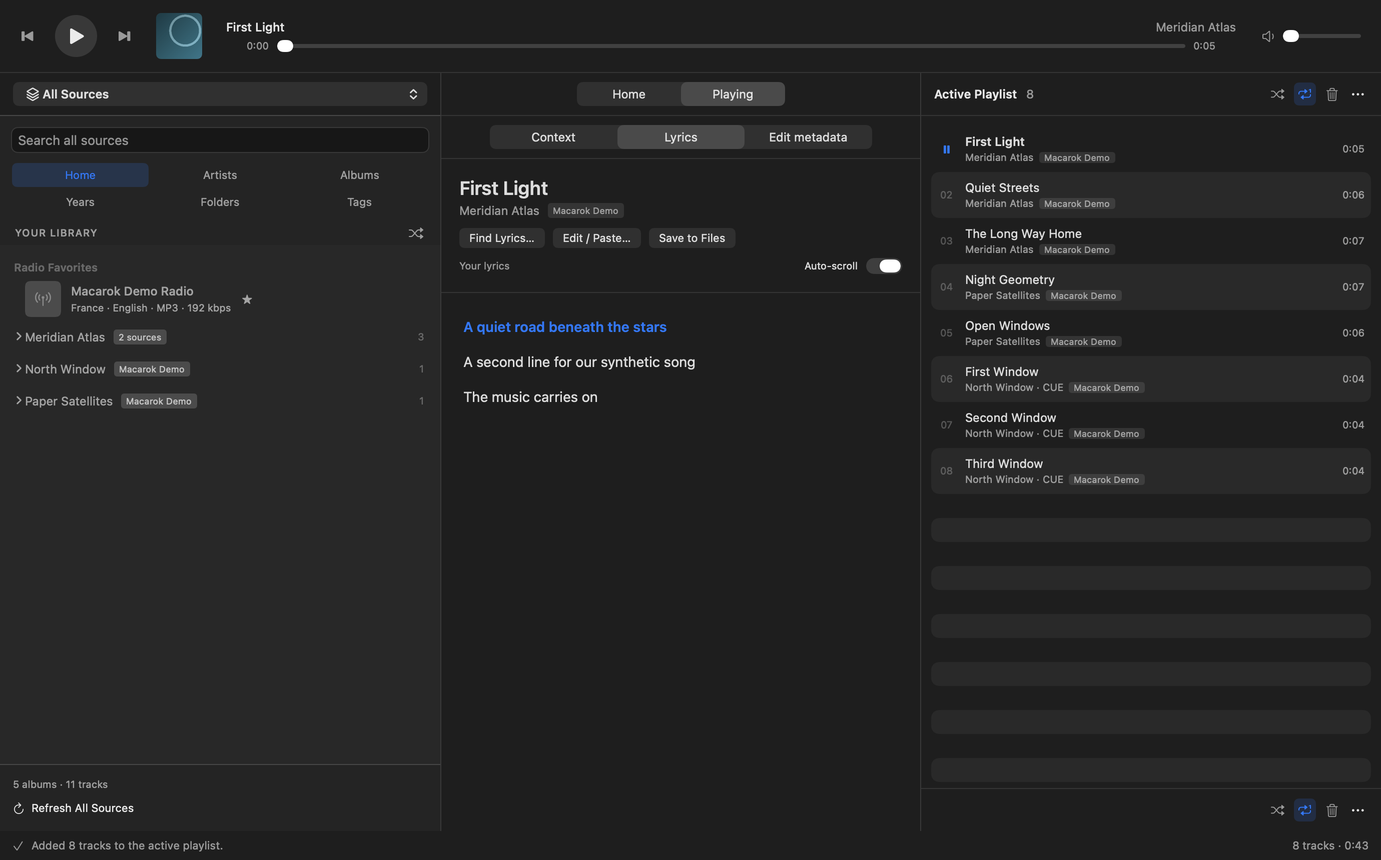
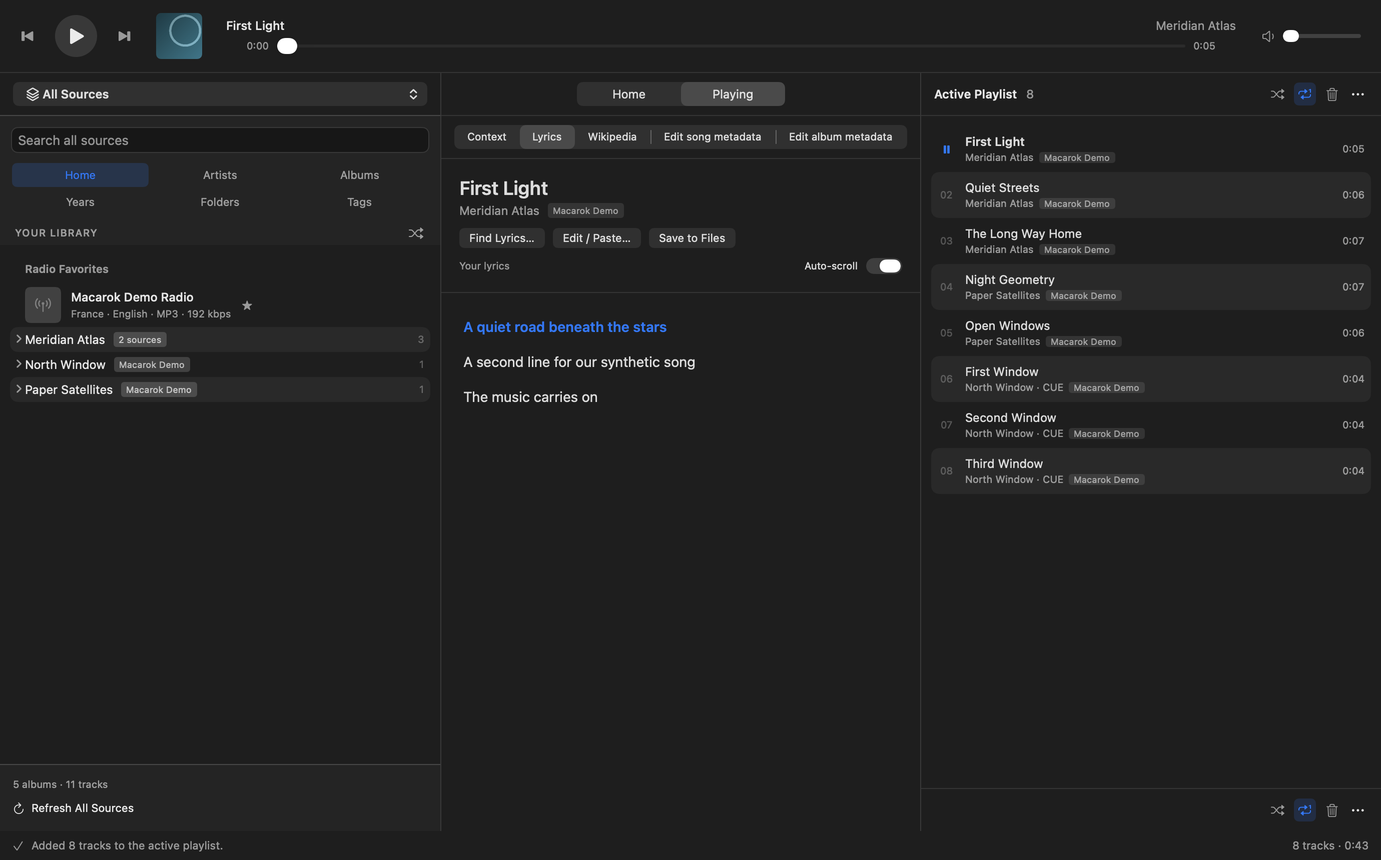
Document playback performance, podcast storage and native interface changes

Changed region(s): [[0.0, 0.3081, 0.187, 0.493], [0.3428, 0.1233, 0.6543, 0.1849], [0.187, 0.0308, 0.2181, 0.0616]]

diff --git a/docs/TESTING.md b/docs/TESTING.md
@@ -16,6 +16,10 @@ The suite also exercises actual VLCKit playback of synthetic MP3, FLAC, Vorbis, 
 
 `PlaybackSeekInteractionTests` covers both native slider callback orders, interrupted drags, and stale releases after a queue transition. Podcast seek checks use synthetic variable-bitrate MP3 audio over loopback HTTP and wait for playback to advance from the requested timestamp. RSS duration hints are used for initial presentation, not byte-buffer sizing or resume bounds; VLC's decoded duration replaces them when available. A server that refuses byte ranges must disable seeking, discard unsupported pending resume points, and keep normal playback and pause/resume working.
 
+`PodcastDownloadTests` uses injected HTTP fixtures to verify explicit-only downloads, persisted files and manifests, source-specific identities, failures/cancellation, owned staging cleanup, retention, invalid paths/symlinks, external deletion, and duplicate-transfer protection. `PlaybackTimelineBufferTests` checks range gaps/clamps/unknown lengths and actual native gray/white/blue pixels in both appearances, including complete local-file coverage through the download controller. Its optional snapshots use `MACAROK_SNAPSHOT_DIRECTORY`.
+
+`WikipediaPaneTests` checks metadata query encoding, artist/album targets, safe navigation, visibility cancellation, stale responses, and pinned-editor context. These tests use an offline navigation state and do not request Wikipedia pages.
+
 `QueuePreferenceTests`, `QueueBehaviorTests`, and `ClearPlaylistTests` cover legacy preference migration, empty-playlist double-click playback, append/after-current choices, shuffled batch append, exact duplicate entry identities, ordered Undo / Redo with updated metadata, active/paused/stopped clear behavior, persistence, and held-arrow seek targets. `SourcePickerTests` checks the real native popup control, source icons, checked selection, and unchanged queue when changing browsing scope.
 
 `RadioAndDiscoveryTests`, `LiveRadioStreamTests`, and `RadioSnapshotTests` cover station persistence, radio/music partitioning, bounded directory requests, M3U/PLS resolution, HLS rejection, ICY framing and metadata timing, podcast directory responses, throttling, and cancellation. Network fixtures replace public directory responses. `LastFMTests` and `ScrobblingControllerTests` use injected HTTP, credentials, time, and browser handling to check signed requests, authorization, listening thresholds, source exclusions, durable ordered delivery, retries, and account changes without authorizing or submitting to a real Last.fm account.
@@ -26,11 +30,15 @@ The menu-tracking regression plays a silent WAV through real VLC while pumping o
 
 `CenterNavigationTests` covers retained Home filters and Context tabs, playback-following behavior, pinned metadata/artwork targets, late editor completion, and merging drafts without replacing newer artwork or history. `ScrobblingSettingsAlignmentTests` checks the real credential text fields in the grouped macOS Form in both appearances, using injected fake credentials without Keychain or network access.
 
+`AlbumMetadataEditorTests` checks complete source-specific album selection under search, duplicate albums in other sources, preserved queue identities and concurrent track corrections, ordinary FLAC tag/audio preservation, external CUE rescans, embedded CUE batching, and partial file-write errors. `AlbumMetadataRenderingTests` renders the real central album editor at 370 and 590 points in Light/Dark, verifying its five shared fields, pinned draft after a queue change, and centered native mode selectors with readable compact labels and full tooltips.
+
+`NativeListBackgroundTests` compares pixels from a real SwiftUI List in both appearances: actual rows must alternate while the complete empty viewport remains uniform after 2 → 4 → 1 → 0 entries and resizing. It also checks pass-through hit testing, native selection/delegate preservation, and mask geometry during native outline expansion/collapse. `MenuBarControllerTests` uses an injected status-item host to check opt-in preference migration, enable/disable lifecycle, current action state, callbacks, and model updates without changing the user's system menu bar.
+
 Progressive catalog tests gate API responses and controller batches to prove that tracks are persisted, searchable, and queueable before completion. They cover cancellation, later request failures, stale refresh generations, source changes, and success-only reconciliation. Folder tests include a synthetic 30,000-track, 7,000-folder catalog and cancellation; the folder tree is built off the main thread.
 
 `LibrarySnapshotTests` covers the prepared navigation groups, deterministic sorting, cancellation, and a synthetic 50,000-track/5,000-album/100-year catalog. `LibraryResponsivenessTests` deliberately holds background loads while exercising all navigation buttons, a MainActor heartbeat, and queue persistence; it also checks coalescing and stale source/error rejection. The comparator tests cover missing disc/track numbers and strict ordering contracts.
 
-`LibrarySearchPresentationTests` verifies grouped results in each library view, query preservation across tabs, clearing the query, source isolation, and complete album selection from a partial search result. Buffer regressions drain multi-megabyte responses through repeated prefix compaction, then exercise seeking and closing without corrupting bytes or trapping on nonzero `Data` indices.
+`LibrarySearchPresentationTests` verifies grouped results in each library view, query preservation across tabs, clearing the query, source isolation, and complete album selection from a partial search result. Buffer regressions drain multi-megabyte responses through bounded retained-chunk eviction, then exercise seeking and closing without corrupting bytes or trapping on nonzero `Data` indices. Transport tests also exercise playback/catalog isolation, reader wakeups, TLS trust parity, and download progress/cancellation.
 
 To exercise the optional real fingerprint helper as well:
 
@@ -66,6 +74,14 @@ MACAROK_SNAPSHOT_DIRECTORY="$PWD/.build/native-snapshots" swift test --filter Na
 
 This renders Home and its three focused filters, All Sources with duplicate names, narrow/wide layouts, artist albums, synchronized/empty Lyrics, a CUE album, track tags, Settings, the metadata editor, source catalog, podcast discovery, Internet Radio library, and minimum-width playlist controls in all repeat states. Inline metadata renders cover 370- and 590-point panels and a queue change while a draft remains pinned. Header geometry checks exercise the real native segmented controls in both appearances, with both navigation rows centered at a stable height. `AlbumTileGeometryTests` measures mixed title lengths and square/portrait/landscape artwork before and after loading. These checks do not capture the screen or verify physical keyboard, file-picker, or media-key interaction.
 
+Generate the additional album-editor previews independently:
+
+```sh
+MACAROK_SNAPSHOT_DIRECTORY="$PWD/.build/native-snapshots" swift test --filter AlbumMetadataRenderingTests
+```
+
+The output contains `album-metadata-light.png`, `album-metadata-dark.png`, and corresponding `album-metadata-narrow-` variants. The render uses an isolated two-track index, advances the current queue entry after editing the draft, and starts neither playback nor a source connection. The native-list pixel checks run with `swift test --filter NativeListBackgroundTests`; they do not need the demo collection. Setting the same snapshot variable additionally writes the initial two-row views as `list-rows-light.png` and `list-rows-dark.png` before the add/remove/resize checks.
+
 ## Run without using the regular library database
 
 ```sh
@@ -85,9 +101,15 @@ Choose All Sources and compare playlist rows with single-source browsing. Each e
 
 Use the centered Home / Playing selector and its second header row in both appearances and at narrow/wide widths. Both rows must retain the same vertical positions through populated, empty, loading, lyrics, and editing states. Home → All shows every section; Recently added, Recently played, and Most played hide the other sections. Switching to Playing and back should retain the chosen Home filter.
 
-In Playing → Context, choose Tags and advance to another queue entry. Its tags should update while Context and Tags remain selected. Repeat while Lyrics is selected. Open Edit metadata, type a draft, and advance the queue: the editor must retain its original title, source, and draft while the playback indicator shows the new entry. Return Home and back to Playing; the draft should still be present. Save or Cancel should return to Context and follow the current queue entry without resetting Overview / Tags. Use generated files when saving.
+In Playing → Context, choose Tags and advance to another queue entry. Its tags should update while Context and Tags remain selected. Repeat while Lyrics is selected. Open Edit song metadata, type a draft, and advance the queue: the editor must retain its original title, source, and draft while the playback indicator shows the new entry. Return Home and back to Playing; the draft should still be present. Save or Cancel should return to Context and follow the current queue entry without resetting Overview / Tags. Use generated files when saving.
 
 Open Change Artwork while editing, then advance playback through media controls or automatic completion. The artwork chooser and underlying editor should retain their original target. Closing the artwork chooser must preserve any metadata draft; leaving the metadata editor should resume following playback. Check that the Last.fm API key field aligns its text to the left in Settings.
+
+Open Edit album metadata from Playing or an album's context menu while search matches only one of its tracks. Confirm that all available tracks from that source's album are included, and that Album, Album artist, Artist (all tracks), Year, and Genre are the only editable fields. Change Album and Year, advance playback, and switch Home/Playing; the original album and draft must remain pinned. Save against generated ordinary files and CUE albums, rescan with protection disabled, and verify unchanged titles, per-track artists, numbering, audio, and CUE segment boundaries. An identically named album in another source must remain unchanged. Use the separate artwork action to verify that closing its chooser preserves the album draft.
+
+Compare library and playlist alternation in Light/Dark with only a few entries, then add/remove entries, resize, scroll, and expand artists, albums, and folders. Actual rows should alternate; the area after the last real row must have no placeholder stripes. Selection, context menus, drag/reorder, and native keyboard navigation must continue working.
+
+In Settings → General, verify that Show Macarok in the menu bar starts disabled. Enable it, inspect the English title/artist and playback actions, close the main window, and use Show Macarok to reopen it. Advance the queue while the status menu is open; actions should control the current entry. Check radio Pause/Reconnect, disable the option during playback, and restart to confirm the preference is retained. Automated host tests cover state and callbacks; this manual check verifies actual macOS status-item presentation.
 
 Clear Playlist should keep only the exact current entry while playing, opening, or buffering, with uninterrupted position. Pause, clear, and confirm the entire queue becomes empty. Repeat for a stopped or restored playlist. Command-Z should undo Clear without autoplay or seeking; Shift-Command-Z should redo it. Add after Clear and confirm Undo removes the new addition before undoing Clear. Repeat with removal, move, shuffle, duplicate tracks, and updated metadata. Editing text must retain its own undo history.
 
@@ -113,9 +135,13 @@ The [loopback demo server](DEMO-SERVER.md) provides an isolated OpenSubsonic lib
 
 ## Source discovery and optional services
 
-Use [source setup](SOURCES.md) to inspect each catalog choice. The Bandcamp preset should fill its endpoint and link to official account/setup pages; a live account check uses generated Subsonic credentials. Qobuz, Deezer, and Spotify cards should open official information pages without presenting a fake connection.
+Use [source setup](SOURCES.md) to inspect each catalog choice. The Bandcamp preset should fill its endpoint and link to official account/setup pages; a live account check uses generated Subsonic credentials. Add Source should contain the five working connector choices, without the former Qobuz, Deezer, and Spotify information cards.
 
 Search podcasts with Podcast Index, then Apple Podcasts. Select Use Feed and confirm subscription still requires Subscribe in the source sheet. Cancel or change provider during a request and confirm old results cannot replace the new state. Direct feed entry should work independently of either directory. Re-subscribing to a known feed should select its existing source.
+
+For podcast playback, compare gray unavailable data, white buffered/downloaded coverage, and blue cursor progress in Light/Dark. Seek beyond the retained range and confirm the white bar does not invent a downloaded prefix. Unknown lengths should have no percentage; variable-bitrate time coverage is approximate. Choose Download Episode, cancel a transfer, then retry. Confirm a completed episode plays locally after disconnecting the network, Reveal in Finder selects the file, and Settings → Playback lists its size and folder. Restart and refresh without losing completed downloads. Use Remove Download on an inactive episode and verify that its file moves to Trash. See [storage and retention](PODCASTS.md).
+
+Open Playing → Wikipedia with a known artist, switch Artist/Album, edit a query, and follow an article link. Change tracks while loading and leave the pane; obsolete navigation must not replace the current target or continue loading in the hidden pane. Keep an editor draft pinned while advancing playback and confirm Wikipedia uses that editor's target until editing finishes. Check centered loading/error/empty states and Try Again while offline, and Open in Browser for the current page. Typing in native or embedded search fields must preserve text editing, arrows, Space, and Undo. Automated Wikipedia tests remain offline; these page checks use the public website.
 
 Add an isolated radio stream URL or browse Radio Browser. Save a station to Favorites, restart, and verify Stations/Favorites and the separate All Sources Home section. Confirm radio never appears as a music album, artist ranking, or counted play. Check direct, M3U, and PLS streams; HLS must report unsupported. With an ICY fixture, verify changing broadcast titles and uninterrupted audio. Live playback must have no seek timeline or saved resume offset; pause closes the connection and resume reconnects. Disconnect the fixture and verify Reconnect is offered without an automatic retry loop.
 

diff --git a/docs/PRODUCT.md b/docs/PRODUCT.md
@@ -20,9 +20,13 @@ Home contains Recently Added, Recently Played, and Most Played. Most Played has 
 
 The three panels share a 42-point bar header and a full-width bottom divider. Library search/navigation sits below its native macOS source picker, which shows source icons and the checked selection. The title bar omits the redundant left app title and refresh button. Album artwork is square; captions reserve two title lines and one artist line. Sources can be added directly from Settings while the main window is closed; the presenting window owns connection and certificate dialogs.
 
-The central panel has two centered segmented menu rows with stable heights. Home / Playing selects the main view. Home offers All, Recently added, Recently played, and Most played, filtering the displayed sections. Playing offers Context, Lyrics, and Edit metadata; Context retains its Overview / Tags detail choice. Track changes update the central playback context without changing these menu selections or the library's browsing scope. Home keeps its selected filter while playback advances.
+The central panel has two centered segmented menu rows with stable heights. Home / Playing selects the main view. Home offers All, Recently added, Recently played, and Most played, filtering the displayed sections. Playing offers Context, Lyrics, Wikipedia, Edit song metadata, and Edit album metadata; Context retains its Overview / Tags detail choice. Track changes update the central playback context without changing these menu selections or the library's browsing scope. Home keeps its selected filter while playback advances.
 
 An active metadata or artwork editor pins its original track and draft while playback continues. Switching to Home does not discard an unfinished metadata session. Returning to Playing restores that editor; finishing it catches up with the current track. Saving a metadata draft changes only its edited fields, retaining newer artwork, listening history, and unrelated concurrent tag corrections.
+
+Library and playlist lists use the same native alternating row style. The unused viewport below the last actual row stays plain, including after adding/removing entries, resizing, scrolling, or expanding folders. A transparent view covers only that unused canvas; native row selection, keyboard navigation, drag operations, context menus, and scrollbars remain owned by AppKit.
+
+Settings → General → Menu Bar offers **Show Macarok in the menu bar**, disabled by default and remembered across launches. The system menu bar item shows the current title and artist, Play/Pause or radio Reconnect, Previous, Next, Show Macarok, and Quit Macarok. Playback controls remain available while the main window is closed. Disabling the option removes the item without changing playback or keyboard preferences.
 
 A single click inspects an item. Double-clicking a library track, album, or artist starts its first available track when the active playlist is empty. With an existing playlist, individual tracks follow the Track double-click preference: Add to Playlist, Add After Current Track, or Play Now. Double-clicking a playlist entry plays that existing entry.
 
@@ -46,6 +50,10 @@ The source catalog includes a Bandcamp preset for `https://bandcamp.com/api/subs
 
 Podcast discovery offers Podcast Index by default and an Apple Podcasts selector. Search returns publisher feeds; Use Feed fills the subscription sheet, and Subscribe retrieves the chosen RSS/Atom feed. Search has cancellation, caching, rate limits, and explicit errors. Direct feed entry remains available.
 
+Podcast streaming retains a bounded RAM buffer; durable episode files require Download Episode. Completed downloads stay until explicitly removed, and Reveal in Finder locates the source-specific file. The timeline layers gray unavailable data, white buffered/downloaded ranges, and blue playback progress. Byte-to-time coverage is approximate for variable bitrate, and unknown lengths have no percentage. See [podcast storage and cleanup](PODCASTS.md).
+
+Wikipedia context uses artist or album metadata for an English Wikipedia page or search result, with editable search and Open in Browser. Loading is limited to the visible pane, follows the central pinned/current target, and rejects obsolete navigation. The unmodified page retains its own attribution and licenses. See [Wikipedia context](WIKIPEDIA.md).
+
 Internet Radio is a persistent source with Stations and Favorites views, URL entry, and Radio Browser directory filters for name, country, language, and tags. Stations remain separate from music albums, artists, and statistics. Direct streams and bounded M3U/PLS resolution are supported; HLS is explicitly unsupported. ICY broadcast metadata is stripped from audio and displayed as live information. Live playback has no seek timeline or saved resume offset. Pause closes the live connection; resume reconnects. Disconnections expose an explicit Reconnect action, without an automatic retry loop.
 
 Support HTTP and HTTPS. Self-signed certificates require explicit acceptance, remembered for the relevant server. Certificate changes require a new decision. Apply a consistent source-specific trust policy to metadata requests, artwork, and audio delivery.
@@ -54,7 +62,7 @@ Support HTTP and HTTPS. Self-signed certificates require explicit acceptance, re
 
 Connecting a server retrieves its album list in pages of 500. Each page's albums are imported before requesting the next page. Each completed album is committed immediately to SQLite, and the first album is published before the next request. Later UI updates are coalesced to roughly 750 ms, with catalog snapshots read off the main thread. Browsing, search, and adding tracks to the queue are available while the rest of the catalog loads. This does not request a server-side file scan.
 
-SQLite retains the indexed titles, artists, albums, tags, durations, remote IDs, paths, and cover references. Startup and source switching display this cached catalog immediately; an explicit Refresh currently repeats the complete metadata traversal. Audio files are requested only for playback, through an in-memory streaming buffer. Cover images are fetched on demand and stored in the separate Artwork cache.
+SQLite retains the indexed titles, artists, albums, tags, durations, remote IDs, paths, and cover references. Startup and source switching display this cached catalog immediately; an explicit Refresh currently repeats the complete metadata traversal. OpenSubsonic audio is requested for playback through an in-memory streaming buffer. Cover images are fetched on demand and stored in the separate Artwork cache.
 
 Cancellation or a later request failure keeps both the previous cache and newly committed albums usable. Missing-track reconciliation runs only after a successful complete retrieval and updates only availability differences. An interrupted import remains marked incomplete across restarts; Refresh traverses the catalog again. Remote cover caches survive refresh while their cover IDs remain unchanged.
 
@@ -102,7 +110,7 @@ Scrobbling is disabled until the user supplies personal Last.fm API credentials 
 
 Local and OpenSubsonic music sources can be individually excluded. Podcasts and radio are always excluded. Eligible plays qualify after half a track's duration or four minutes, with a minimum known duration greater than 30 seconds; unknown durations use four minutes. Listening uses monotonic time, excludes pauses/buffering/seeks, and treats repeats as separate occurrences. Existing library history is never uploaded retroactively.
 
-Now Playing is separately configurable. Qualified plays are persisted and delivered oldest first, with retry and pending/ignored/failed counts. Disconnect disables scrobbling and clears pending submissions for the account. See [Last.fm setup and privacy](SCROBBLING.md).
+Now Playing is separately configurable. Qualified plays are persisted and delivered oldest first, with retry and pending/ignored/failed counts. Disconnect removes the saved session and stops submission while retaining that account's pending plays. Reconnecting the same account resumes them; another account cannot submit them. See [Last.fm setup and privacy](SCROBBLING.md).
 
 ## Library, metadata, and artwork
 
@@ -115,6 +123,14 @@ Use TagLib for metadata reading and writing. Build enrichment around MusicBrainz
 Preview proposed changes, preserve unknown tags, and respect personal corrections. Find artwork in embedded metadata and local folders, then through web providers such as Cover Art Archive. Allow selected artwork to be embedded in audio files and optionally saved alongside the album.
 
 Writing tags to remote originals requires a source that provides file-write access; OpenSubsonic library edits must not imply that the server's audio file was modified.
+
+### Album metadata editing
+
+**Edit song metadata** and **Edit album metadata** have separate drafts. The album editor exposes only Album, Album artist, Artist (all tracks), Year, and Genre. It resolves every available track in the original source and album, even when a search displays only a subset. An identically named album in another source is a separate target. The source/album target and unfinished draft remain pinned when playback advances or the central view changes.
+
+Only shared fields changed in the draft are applied. Unchanged per-track artists, titles, track/disc numbers, CUE timestamps, artwork, listening history, ratings, and unrelated concurrent corrections are preserved. The protection checkbox controls whether local corrections survive future scans; remote corrections remain library overlays.
+
+**Save to Files** explicitly confirms local writes. Each physical audio file is written once through the verified TagLib writer; external CUE sheets are updated once, and textual embedded CUE changes are committed together with shared audio tags. Album-artist changes preserve inherited per-track performers unless Artist (all tracks) is explicitly changed. Unknown tags, CUE directives, audio frames, and segment boundaries remain intact. A multi-file save can partially succeed; an error reports completed destinations and retains the draft. **Save to Library** changes only Macarok's index for remote sources. Artwork uses the separate Change Artwork action.
 
 ## Development conventions
 

diff --git a/docs/VERIFICATION.md b/docs/VERIFICATION.md
@@ -6,6 +6,10 @@ The completed-check records below describe their respective revisions. The curre
 
 ## Completed checks
 
+- The playback-performance, explicit podcast-download, album-editor, menu-bar, Wikipedia, and real-row styling follow-up passed the complete suite on 16 November 2026: **362 tests, zero failures** — Core 146, Metadata 17, Audio 15, App 184. The run includes synthetic HTTP/ICY playback during catalog writes, retained-buffer eviction and cancellation, sparse scans, queue checkpoints, typed snapshot patches, file-write audio preservation, downloaded episodes, native timeline pixels, album drafts, status-menu actions, Wikipedia navigation guards, and real-row/empty-viewport rendering. Log: `.build/performance-full-tests-final.log`.
+- An isolated native app with its own SQLite directory and silent synthetic podcast verified Range seeking, white buffered/downloaded coverage, explicit download completion, and Reveal in Finder selecting the actual audio file. After stopping its loopback server and restarting the app, the downloaded episode played and advanced from its parked position without the server. The real library outline and one-entry playlist were visually checked in Light and Dark: actual rows alternate, and the unused viewport has no phantom stripes. The Playing header exposed Wikipedia and both metadata editors; the album editor exposed only its five shared fields. The optional Menu Bar preference was exercised; status-menu lifecycle/actions additionally use an injected native-host regression. Validation app, Finder window, and server were closed afterward.
+- The Release app was rebuilt and passed `codesign --verify --deep --strict`; both its bundle and executable retain macOS **14.0** as the minimum. Log: `.build/performance-release-build.log`. Updated component renders are in `design/native`. The bundle uses the existing ad-hoc signing setup; the public v0.1.0 release was not replaced.
+
 - The playback, queue undo, scrobbling, radio, and podcast-discovery follow-up passed the complete suite on 15 November 2026: **255 tests, zero failures** — Core 118, Metadata 17, Audio 9, App 111. The run includes native Light/Dark component renders, all repeat modes at the minimum playlist width, interrupted imports, stale radio refreshes, live VLC playback, ICY framing, directory cancellation/rate limits, native undo routing, and injected Last.fm authorization/outbox tests. Logs: `.build/playback-final-test.log`.
 - An isolated Release app was exercised with silent synthetic files and a loopback M3U/ICY radio server. Empty-queue artist double-click started playback; arrows sought by five seconds and accepted held repeats. Native Edit → Undo restored Clear, AZERTY Command-Z and Shift-Command-Z undid/redid the queue, and text-field Undo changed only the text. Both repeat controls stayed synchronized. The window retained its central title and native controls without the old left application block.
 - The loopback radio displayed its broadcast title, closed its HTTP connection on pause, reconnected with a new request, and retained the queue entry with Reconnect after EOF. Requests contained `Icy-MetaData: 1` and no Range header. Settings showed personal Last.fm fields without making an authorization request. With the main window closed, Settings-owned Add Source subscribed to a redirected synthetic RSS feed; subscribing again kept one canonical source. All validation app instances and the loopback server were stopped afterward.
@@ -54,5 +58,5 @@ Live MusicBrainz/AcoustID results and personal OpenSubsonic servers have not bee
 - Servers that compress byte-range responses or cap an open-ended range before EOF fail explicitly; automatic stitching of such ranges is not implemented.
 - Gapless playback is optional. Crossfade, dedicated commercial-service connectors, and direct cloud-storage integration are outside this iteration. All Sources unifies presentation while retaining separate stored copies and origin references.
 - Internet radio supports direct HTTP/HTTPS streams and M3U/PLS wrappers; HLS is unsupported. Live radio has no seeking or saved resume offset and uses explicit reconnection after a disconnect. Radio remains outside music rankings and Last.fm scrobbling.
-- Qobuz, Deezer, and Spotify currently provide official information links only. Bandcamp uses its OpenSubsonic preset rather than a separate proprietary playback connector.
+- Dedicated Qobuz, Deezer, and Spotify playback connectors are unavailable. Bandcamp uses its OpenSubsonic preset rather than a separate proprietary playback connector.
 - Release DMGs currently target Apple Silicon and macOS 14 or later. The application is ad-hoc signed without Apple notarization.

diff --git a/docs/PLAYBACK-PERFORMANCE.md b/docs/PLAYBACK-PERFORMANCE.md
@@ -1,0 +1,37 @@
+# Playback during library work
+
+Playback, indexing, and presentation use separate work paths. The app retains macOS 14 as its deployment target.
+
+## HTTP audio
+
+`SourceTransport` has separate playback, download, and catalog sessions with the same source-specific certificate and redirect policy. Playback receives data chunks on a dedicated high-priority delegate queue. A bounded retained-chunk buffer provides backpressure through reader/producer wakeups, without per-byte Swift concurrency, repeated polling, or moving the remaining audio under a lock. Small seeks reuse retained bytes. Old ranges and callbacks are rejected after replacement or cancellation. ICY parsing copies audio spans and keeps metadata out of decoder input.
+
+Retained byte ranges describe reusable RAM, not a cumulative download. Evicted bytes are no longer shown as buffered. CBR/VBR files use the same decoder; timeline coverage derived from byte offsets is approximate for variable bitrate. Unknown total lengths do not invent a percentage.
+
+## VLC and the UI
+
+A shared `VLCLibrary` avoids constructing a libVLC context for every track. Each item retains its own lightweight player/delegate identity, so callbacks cannot complete a replacement item. Local files and mounted shares receive file caching as well as network caching for streams.
+
+`PlaybackTimeline` owns position, duration, seekability, and buffering publications. Equality guards suppress duplicate values. Only the compact seek control and synchronized lyric lines observe this clock. Playlist and radio panels observe playback state. Queue-entry lookup and source-kind lookup use indexes, while each metadata batch assigns the queue once and retains its UUIDs and selection.
+
+Bookmark resolution, security access, and filesystem probes run through `PlaybackPreparationWorker`. The next local item is prepared ahead of a transition. Failed prefetches are advisory: foreground playback retries after a share or file returns. Security access stays alive until source removal or application shutdown.
+
+Resume checkpoints update a small record without rewriting the full queue JSON every five seconds. Content revisions and checkpoint revisions are ordered independently, so a checkpoint delivered before its preceding queue edit cannot discard that edit. macOS Now Playing receives immediate state/seek changes and periodic clock reconciliation.
+
+## Library and images
+
+Local scans cache each audio file's mtime, size, and parsed metadata in an additive SQLite table. Unchanged files skip TagLib and embedded-art hashing; CUE sheets and sidecar images remain independently discoverable. Interrupted scans keep prior cache entries and do not reconcile absent tracks. Progress is coalesced to approximately ten updates per second. SQLite updates only changed columns and availability, avoiding unnecessary FTS work.
+
+History, rating, artwork, and radio presentation patches run off the foreground without rereading and re-sorting the whole catalog. Snapshot and search publication overlays newer committed patches. Rankings still aggregate the complete selected scope before selecting eight entries. Structural metadata edits rebuild grouping when needed.
+
+Remote artwork requests are bounded and share cached source clients. Thumbnails use ImageIO on a utility queue, with coalesced decoding, a maximum of three concurrent decodes, and a bounded memory cache. Drawing does not decode original full-resolution images on the main thread.
+
+FSEvents batches retain their paths and rescan flags. Recent app writes are suppressed only when exact post-write file fingerprints still match. Directory-only, dropped, root-change, and mixed external events remain eligible for a scan. Verified file writers replace audio atomically; a playback regression checks that tag changes preserve PCM and do not stop a currently open file.
+
+## Measurements and validation
+
+Use Instruments' Points of Interest to inspect `Install`, `TrackTransition`, `PublishSnapshot`, and `StreamBufferWait` intervals. Stream snapshots expose underrun count, wait duration, retained ranges, and buffer capacity. Player diagnostics report installation and transition durations without publishing them to views.
+
+The automated stress fixtures play finite HTTP audio and ICY radio during SQLite imports and catalog preparation, exercise a MainActor heartbeat, and bound transition gaps. They use synthetic audio and loopback HTTP/TLS. These checks do not replace testing the throughput and latency of a particular NAS or remote server.
+
+See [Testing Macarok](TESTING.md) for the full suite and native rendering commands.

diff --git a/README.md b/README.md
@@ -33,13 +33,18 @@ To build a versioned disk image locally, run `./scripts/package-dmg.sh 0.1.0 1`.
 - CUE sheets expose individual tracks without splitting the original audio.
 - Persistent playlists, queue, listening history, ratings, and scope-aware search through SQLite/FTS5.
 - Home includes Recently Added, Recently Played with fixed local dates, separate Tracks, Artists, and Albums rankings, and Radio Favorites in All Sources.
-- Centered Home / Playing navigation has a fixed second menu row: Home filters or Context / Lyrics / Edit metadata. Track changes retain the selected mode and detail tab; active metadata and artwork editors keep their original target.
+- Centered Home / Playing navigation has a fixed second menu row: Home filters or Context / Lyrics / Wikipedia / Edit song metadata / Edit album metadata. Track changes retain the selected mode and detail tab; active metadata and artwork editors keep their original target.
+- Podcast timelines show gray unavailable data, white buffered/downloaded coverage, and blue playback progress. Explicit episode downloads support offline playback, Reveal in Finder, and manual removal; see [podcast storage and cleanup](docs/PODCASTS.md).
+- Artist/album Wikipedia context with editable search, loading cancellation, and Open in Browser; see [Wikipedia behavior and content licenses](docs/WIKIPEDIA.md).
 - Synchronized lyrics from local files, OpenSubsonic, and LRCLIB, with manual search/corrections, caching, highlighting, and optional file export.
 - Double-click a track, album, or artist to start an empty playlist; track double-click choices include Add to Playlist, Add After Current Track, and Play Now. Album and artist actions always use their complete track lists.
 - Playlist controls at the top and bottom, contextual shuffle that appends to an existing queue, None / Playlist / Track repeat, and native Undo / Redo for playlist edits.
+- Matching native alternating rows in the library and playlist; unused space below the last entry stays plain.
 - Mac media keys, configurable local and global shortcuts, held Left / Right keys for seeking, and adjustable streaming buffering.
+- Optional system menu bar controls for playback and reopening the player, disabled by default.
 - Optional Last.fm scrobbling with personal API credentials, browser authorization, source exclusions, and a persistent submission queue.
 - Metadata cleanup, MusicBrainz release matching with change previews, TagLib file writes, and embedded/local/web artwork.
+- Separate song and album editors. Album edits apply changed shared fields to the complete album in its actual source while preserving individual titles, numbering, CUE boundaries, and listening history.
 - Optional recording identification through Chromaprint and AcoustID, using your own application client key stored in Keychain.
 - HTTP and HTTPS, with explicit server-specific trust for self-signed certificates shared by library, artwork, and audio requests.
 
@@ -68,6 +73,10 @@ Offscreen renders of the implemented SwiftUI views, using the synthetic demo col
 The metadata editor keeps its target and draft while the next track plays:
 
 ![Pinned metadata editor in dark mode](design/native/metadata-dark.png)
+
+The separate album editor is also rendered in [Light](design/native/album-metadata-light.png) and [Dark](design/native/album-metadata-dark.png), with compact [Light](design/native/album-metadata-narrow-light.png) and [Dark](design/native/album-metadata-narrow-dark.png) layouts at the minimum central-panel width.
+
+Additional native renders show [real alternating rows](design/native/list-rows-dark.png), [buffered podcast coverage](design/native/podcast-timeline-dark.png), and a [completed episode download](design/native/podcast-timeline-downloaded-dark.png). See [playback performance](docs/PLAYBACK-PERFORMANCE.md) for the background work and streaming architecture.
 
 ## Explore the mockups
 

diff --git a/docs/PODCASTS.md b/docs/PODCASTS.md
@@ -1,0 +1,39 @@
+# Podcasts: streaming, downloads, and storage
+
+Subscribe to a publisher RSS/Atom feed or find a show through Podcast Index or Apple Podcasts. See [source setup](SOURCES.md#podcasts) for discovery and subscription.
+
+## Read the timeline
+
+The podcast timeline has three layers:
+
+- **Gray:** audio that is not currently buffered or downloaded.
+- **White:** retained streaming data or the received portion of an explicit download. A completed download covers the whole bar.
+- **Blue:** playback progress up to the cursor.
+
+Streaming coverage is estimated from byte offsets and the total file length. Its time alignment is approximate for variable-bitrate audio. An unknown total length does not produce a fabricated percentage. Seeking can retrieve a separate byte range; white coverage does not imply that every preceding byte was downloaded. Retained streaming data may disappear from the indicator when it is evicted.
+
+## Download an episode
+
+Choose **Download Episode** from an episode's context menu or its context panel. **Cancel Download** stops an active transfer; retrying starts a fresh transfer. Downloads begin only after this explicit action. Ordinary playback and feed subscription do not save complete episode files automatically.
+
+Later plays prefer the completed local file. **Reveal in Finder** selects that file. **Settings → Playback → Podcast Downloads** lists completed downloads, their sizes, Reveal/Remove actions, and **Open Downloads Folder…**.
+
+## Where files live
+
+The default folder is:
+
+```text
+~/Library/Application Support/Macarok/PodcastDownloads/
+```
+
+When `MACAROK_DATA_DIRECTORY` is set, `PodcastDownloads` is placed inside that directory alongside `library.sqlite`. Audio files use stable filenames derived from the source and episode identities, so copies from different sources stay separate. `downloads.json` records their titles and file references. Audio is stored in separate files, not inside SQLite.
+
+Ordinary streaming uses a bounded memory buffer. Macarok does not create a playable episode file for that buffer, so there is no streaming file to reveal in Finder. Consumed chunks are evicted as space is needed; closing or replacing the stream releases its retained data. Pausing may retain the bounded buffer. See [playback internals](PLAYBACK-PERFORMANCE.md#http-audio).
+
+## Cleanup and removal
+
+Completed explicit downloads have no automatic expiry or size-based eviction. Refreshing or removing a source does not delete its completed downloads. Choose **Remove Download**, or Remove in Settings, to move a completed audio file to Trash. Removal is disabled while that episode is active, including paused playback.
+
+Failed or cancelled transfers do not publish a completed file. Macarok removes its unfinished staging files after failure/cancellation and cleans up owned staging files left by an interrupted app session on the next startup. Unrelated files and completed audio are retained. URLSession uses a system temporary location during the transfer before Macarok publishes the completed file.
+
+If a completed file is deleted in Finder, Macarok prunes its stale download entry when it reloads the download list. The episode can then be downloaded again.

diff --git a/docs/WIKIPEDIA.md b/docs/WIKIPEDIA.md
@@ -1,0 +1,19 @@
+# Wikipedia context
+
+Open **Playing → Wikipedia** to read about the inspected or playing track's artist or album. The centered **Artist / Album** selector chooses the metadata used for the search. Its selection stays unchanged as tracks advance. The search field is editable, and **Search** submits a manual query.
+
+The pane follows the same track as the central context. Active metadata or artwork editing keeps its original target pinned; finishing the editor resumes following playback. The same artist or album query reuses the loaded page while the pane remains visible.
+
+Search uses English Wikipedia's [MediaWiki Go behavior](https://www.mediawiki.org/wiki/Help:Go_button): an exact article when available, otherwise search results. Search requests ask for the compact [Minerva skin](https://www.mediawiki.org/wiki/Beta_Features/Minerva); the final page layout and appearance remain controlled by Wikipedia. **Open in Browser** opens the current page with the website's full controls. Page links to other sites open the browser when clicked.
+
+## Requests and storage
+
+Wikipedia loads only while its pane is visible. Changing the target cancels the previous navigation, and obsolete callbacks cannot replace the new page. Leaving the pane stops its navigation. Loading, missing-metadata, and network-error states remain centered; errors offer **Try Again**.
+
+Artist or album search terms are sent to English Wikipedia. Macarok does not send source credentials or file paths. WebKit uses a nonpersistent website data store with content JavaScript disabled; no Wikipedia article cache is added to the library database. The page controls and article appearance are supplied by Wikipedia.
+
+## Content licenses
+
+The pane displays unmodified official pages, including their attribution and licensing footer, and links to the current page through Open in Browser. Wikipedia text and media retain their own licenses; Macarok's MIT license covers its source code. No Wikipedia articles, media, or logos are bundled with Macarok.
+
+See [Wikipedia's copyright and reuse information](https://en.wikipedia.org/wiki/Wikipedia:Copyrights#Reusers%27_rights_and_obligations) and [Wikimedia's licensing terms](https://foundation.wikimedia.org/wiki/Policy:Terms_of_Use#7._Licensing_of_Content). Media licenses are identified on their individual description pages.

diff --git a/docs/SOURCES.md b/docs/SOURCES.md
@@ -48,6 +48,8 @@ Enter a title or author, choose **Search**, then **Use Feed** beside the desired
 
 Search only runs on submission. Requests are rate-limited and cached; a directory error or throttling message can be retried later. You can always paste a feed URL directly.
 
+Episodes stream by default. Choose **Download Episode** to keep an explicit local copy, then **Reveal in Finder** to locate it. The timeline distinguishes playback progress from buffered/downloaded coverage. See [podcast timelines, storage, and cleanup](PODCASTS.md) for the download folder and retention policy.
+
 ## Service availability
 
 | Service | Macarok support |
@@ -56,7 +58,7 @@ Search only runs on submission. Requests are rate-limited and cached; a director
 | OpenSubsonic / Navidrome | Cached library, original-quality playback, source-specific authentication and certificate trust |
 | Bandcamp | OpenSubsonic preset with generated account credentials |
 | Internet Radio / Radio Browser | Saved stations, favorites, directory search, direct streams and M3U/PLS wrappers; HLS unsupported |
-| Podcasts / Podcast Index / Apple Podcasts | Feed subscription and episode playback; directories provide discovery |
+| Podcasts / Podcast Index / Apple Podcasts | Feed subscription, streaming and explicit episode downloads; directories provide discovery |
 | Last.fm | Optional scrobbling; see [setup and privacy](SCROBBLING.md) |
 | [Qobuz](https://www.qobuz.com) | No playback connector; approved partner integration is required |
 | [Deezer](https://www.deezer.com) | No confirmed public full-playback integration route |
